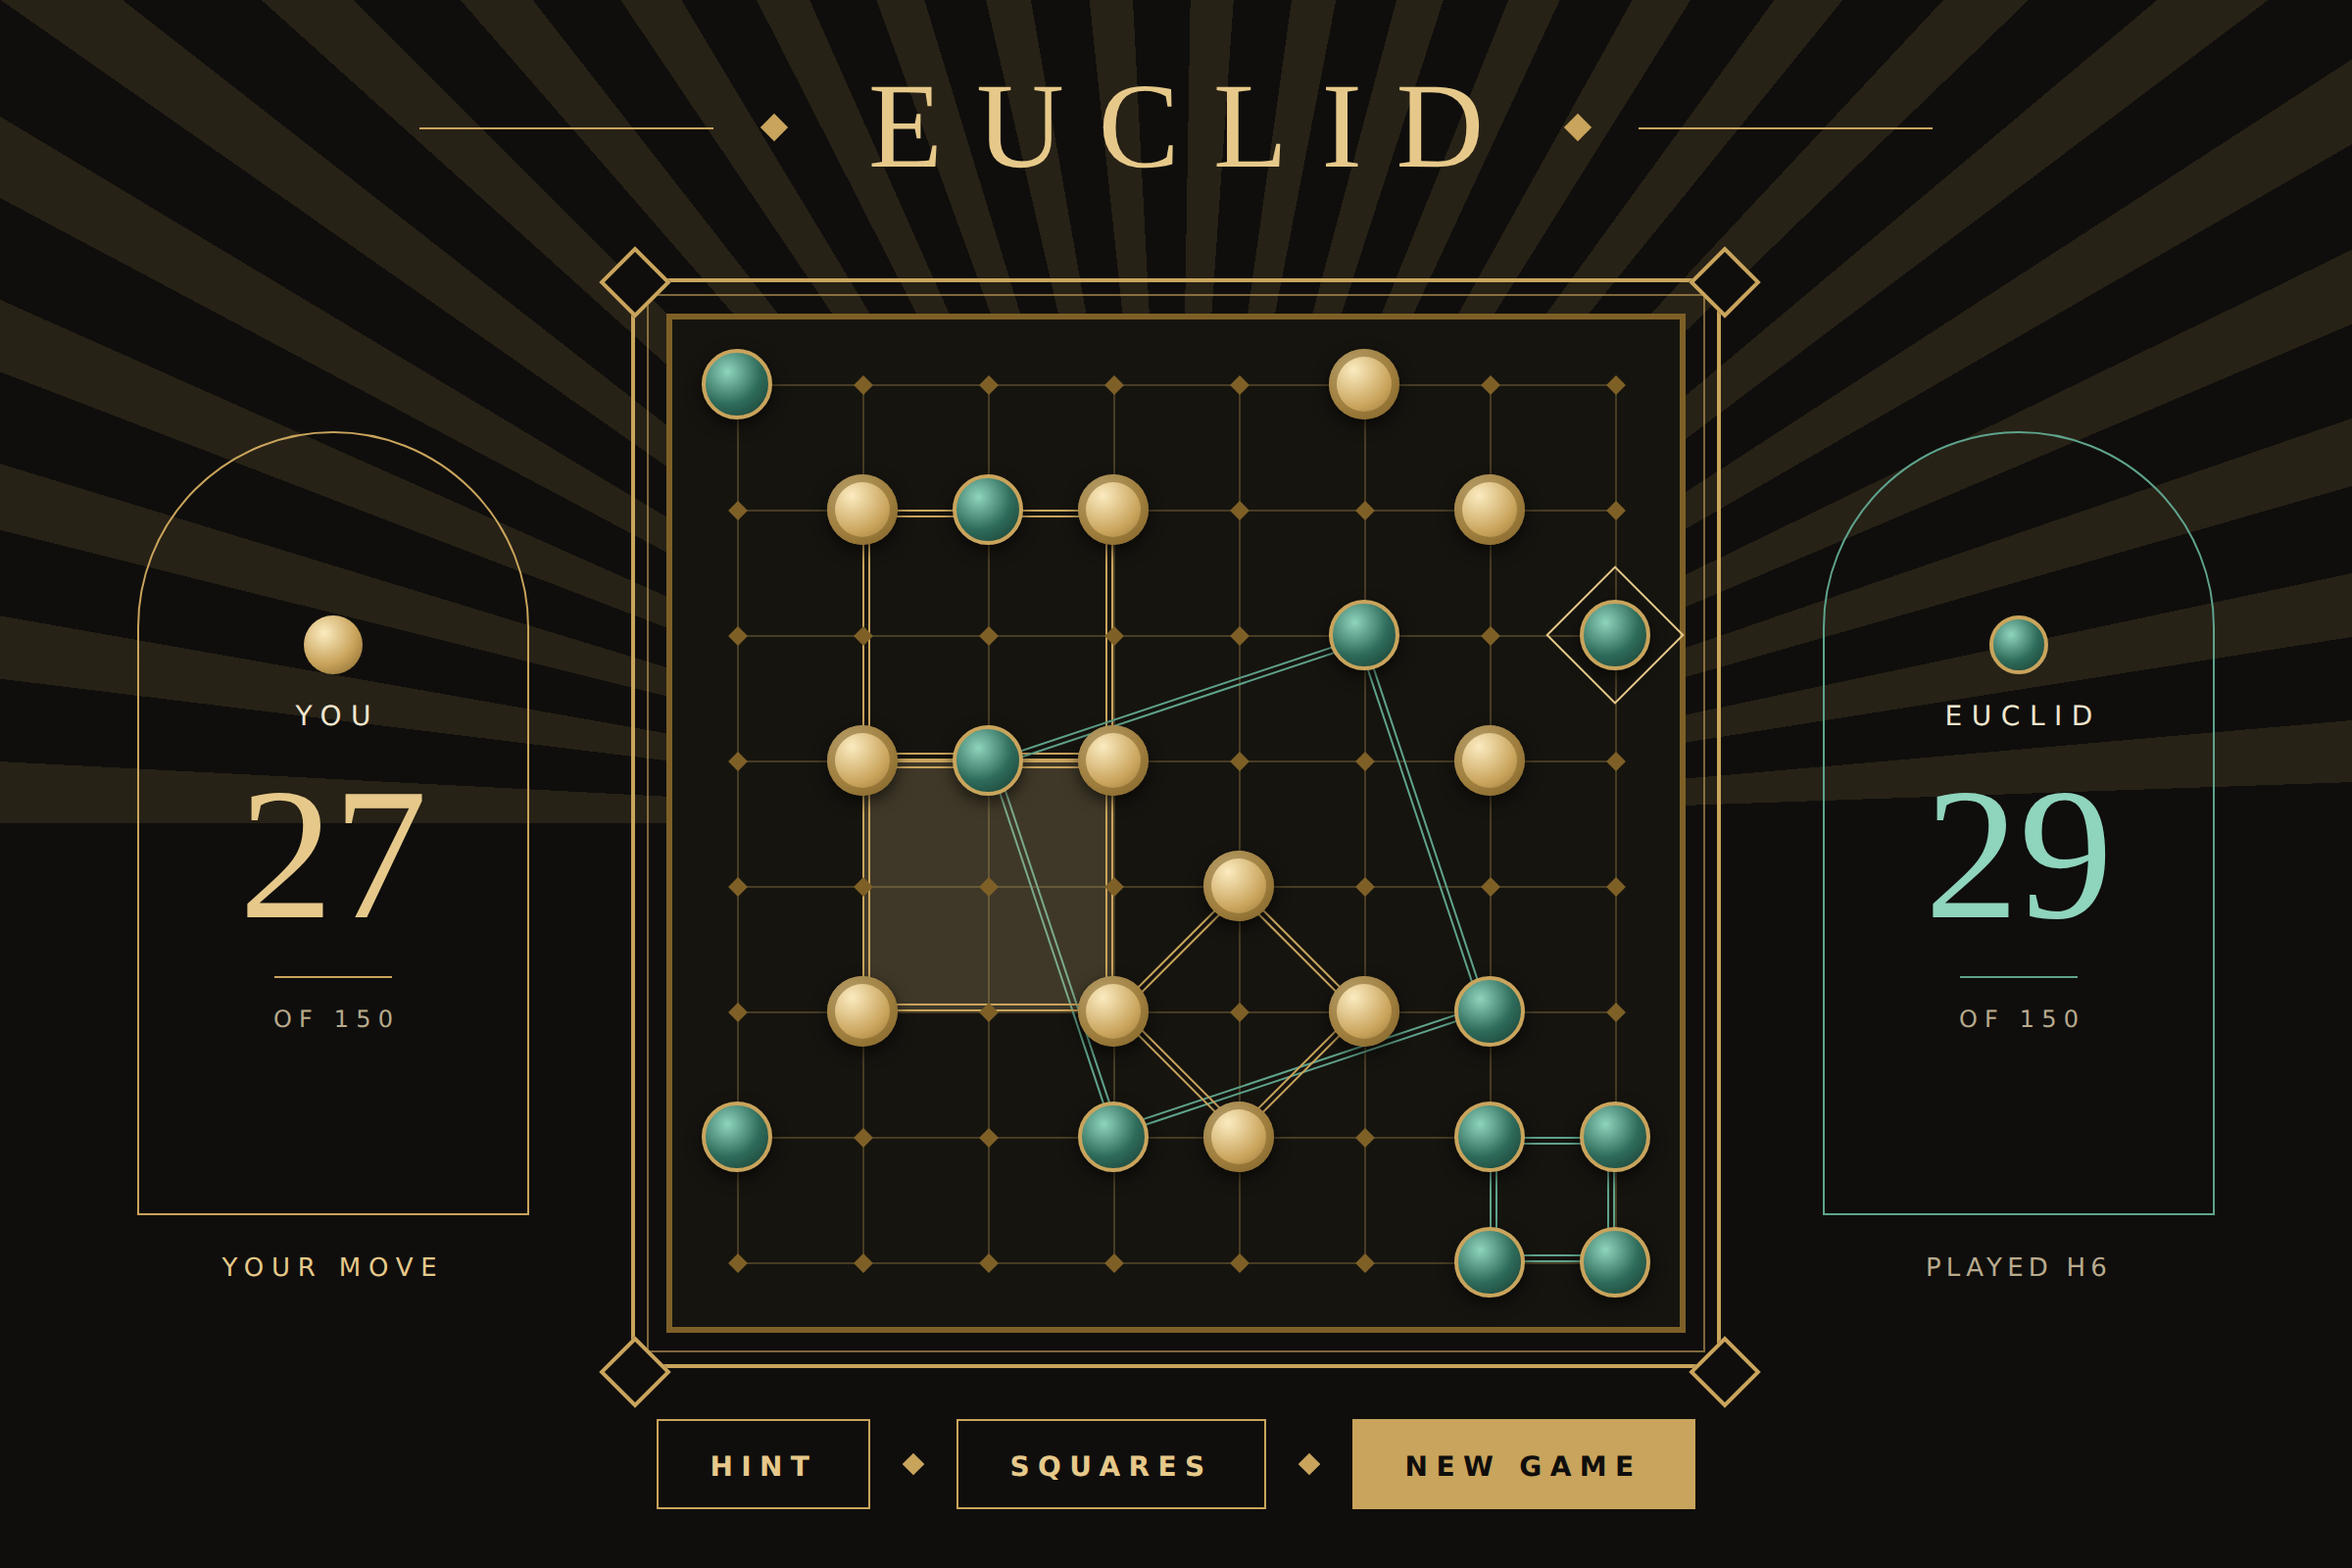
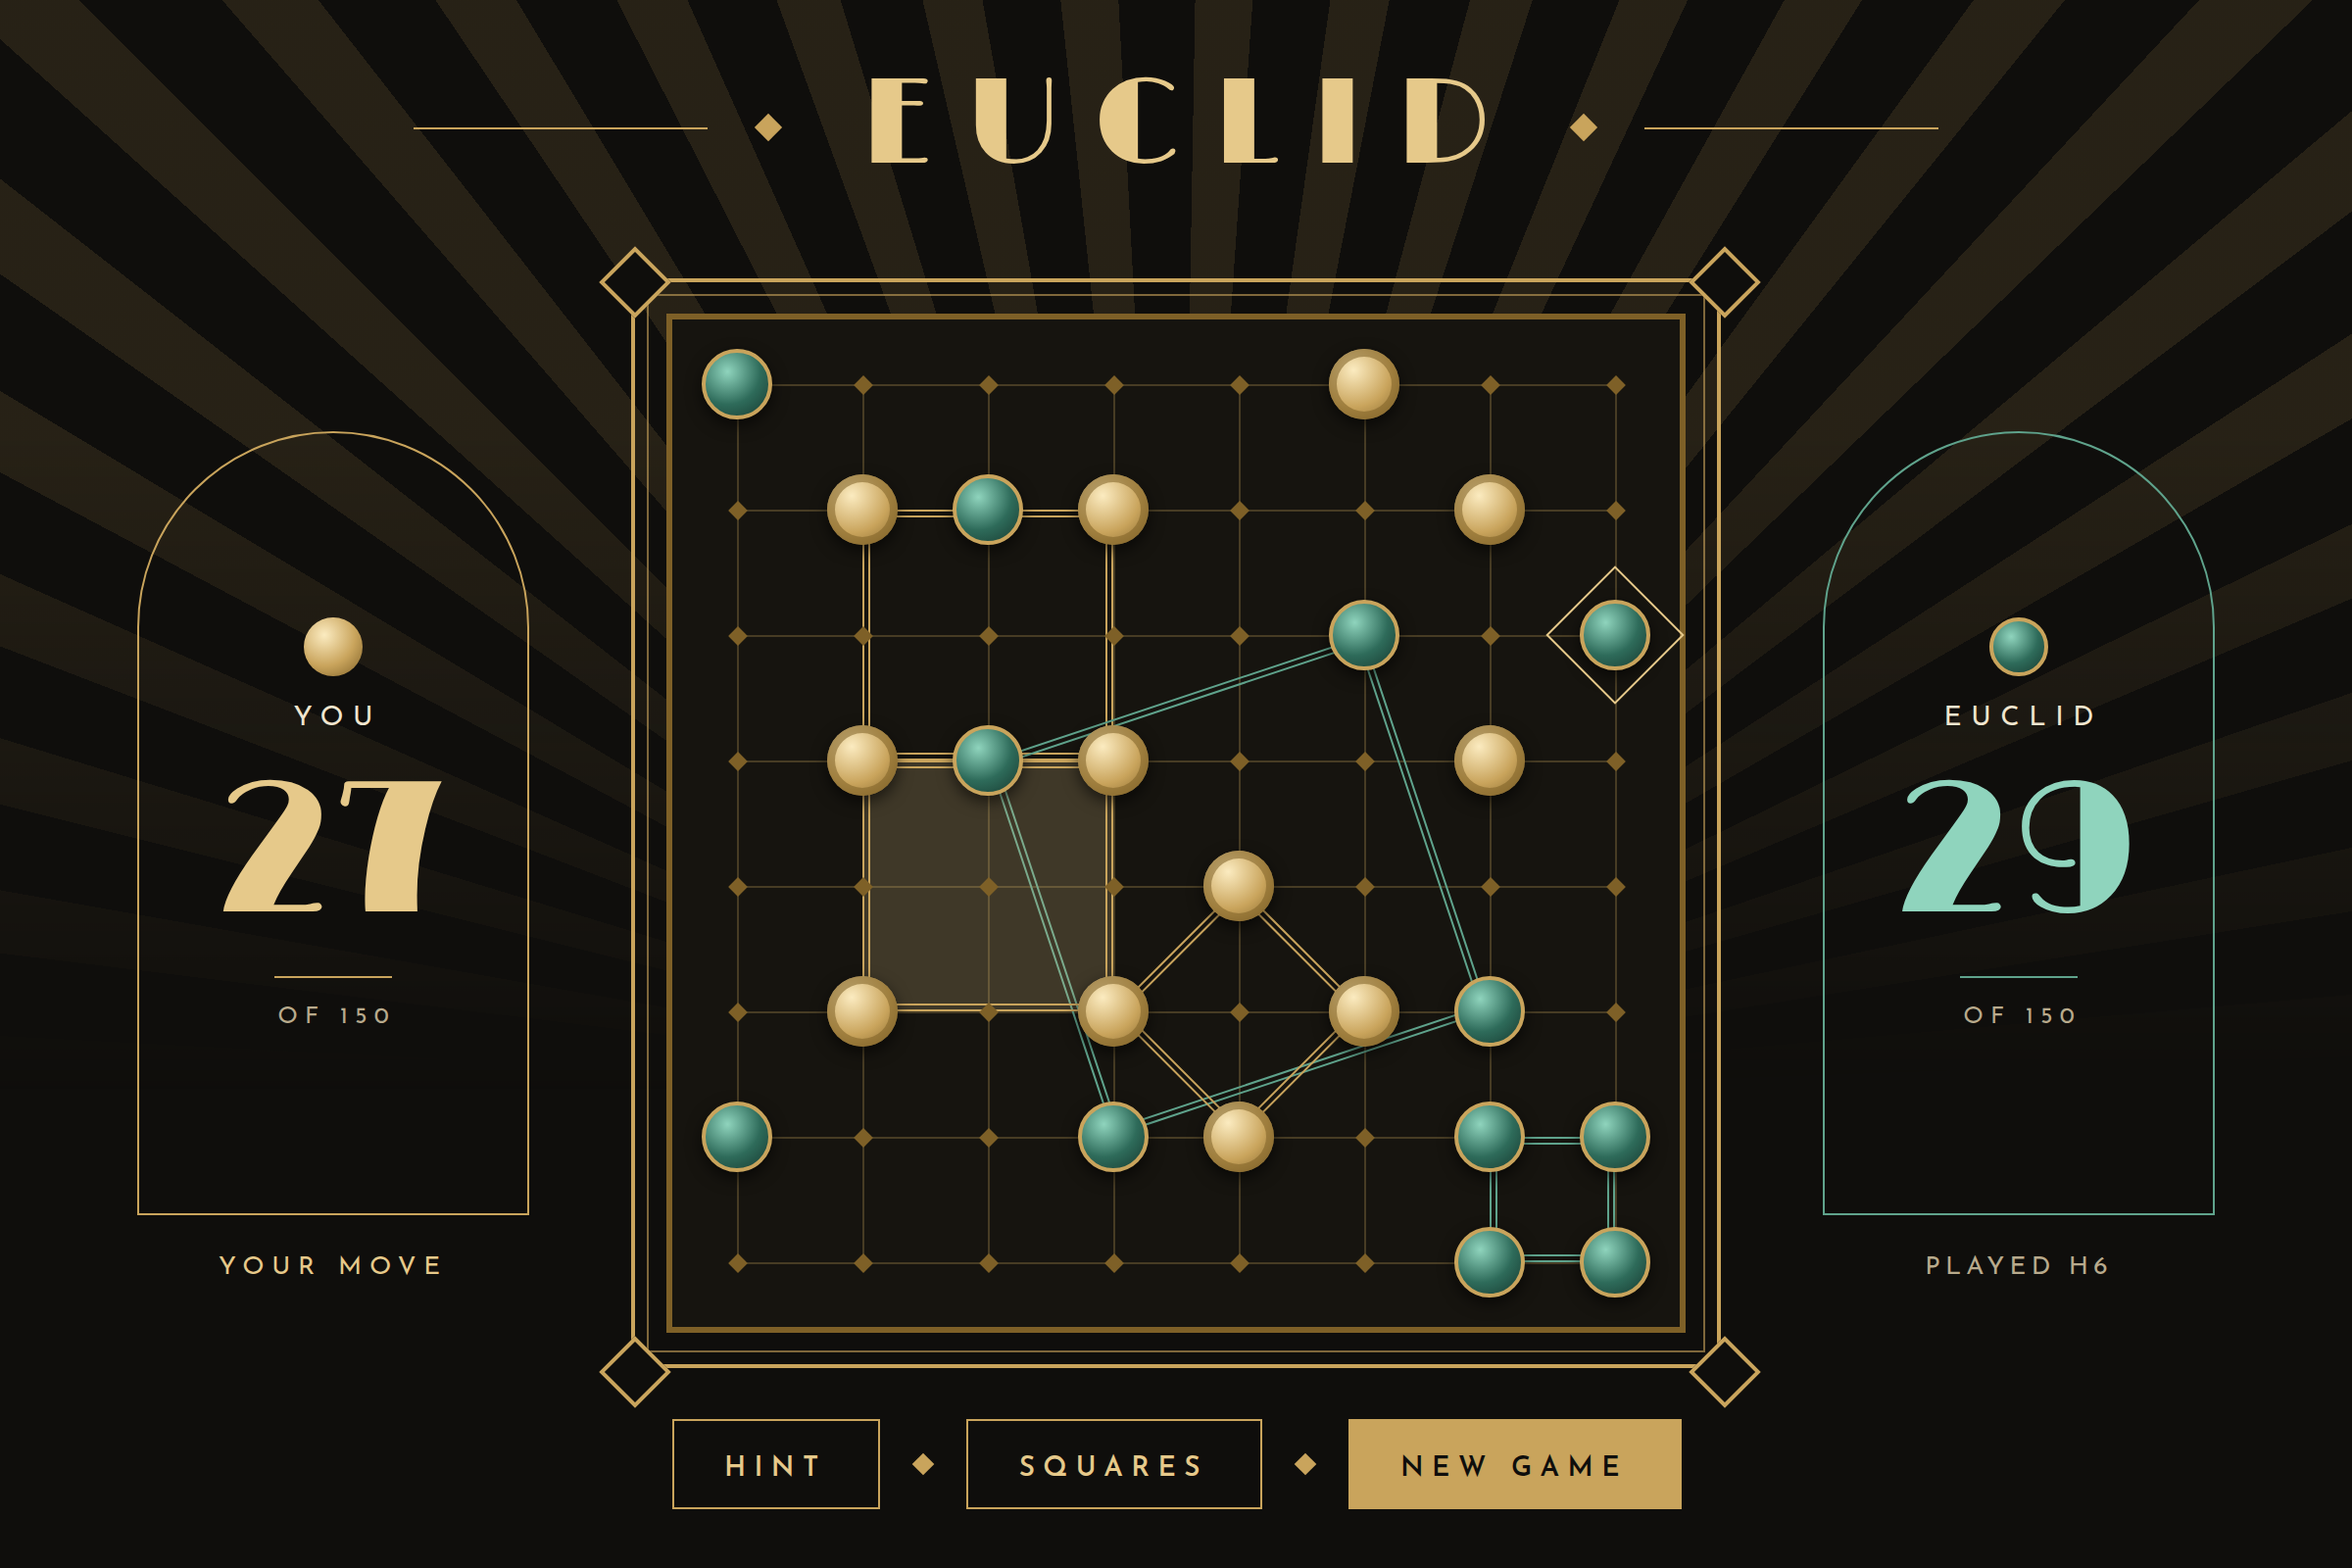
Fade the Deco sunburst instead of cutting it off

diff --git a/designs/source/07-deco.dc.html b/designs/source/07-deco.dc.html
@@ -13,12 +13,12 @@
 <style>
 body{margin:0;background:#0F0E0C;font-family:"Josefin Sans",system-ui,sans-serif;color:#F1E6CF}
 a{color:#C9A45C}a:hover{color:#E6C98A}
-.rays{background:repeating-conic-gradient(from -90deg at 50% 100%,rgba(201,164,92,.13) 0deg 3deg,transparent 3deg 7deg)}
+.rays{-webkit-mask-image:linear-gradient(#000 45%,transparent 100%);mask-image:linear-gradient(#000 45%,transparent 100%);background:repeating-conic-gradient(from -90deg at 50% 100%,rgba(201,164,92,.13) 0deg 3deg,transparent 3deg 7deg)}
 .db{font-family:"Josefin Sans",system-ui,sans-serif;font-size:14px;font-weight:600;letter-spacing:.3em;text-transform:uppercase;min-height:46px;padding:4px 26px 0;border:1px solid #C9A45C;background:transparent;color:#E6C98A;cursor:pointer}
 </style>
 </helmet>
 <div style="position: relative; width: 1200px; height: 800px; background: #0F0E0C; overflow: hidden">
-  <div class="rays" style="position: absolute; left: 0; top: -60px; width: 1200px; height: 480px"></div>
+  <div class="rays" style="position: absolute; left: 0; top: -60px; width: 1200px; height: 620px"></div>
 
   <!-- title -->
   <div style="position: absolute; left: 0; top: 34px; width: 1200px; display: flex; align-items: center; justify-content: center; gap: 26px">
